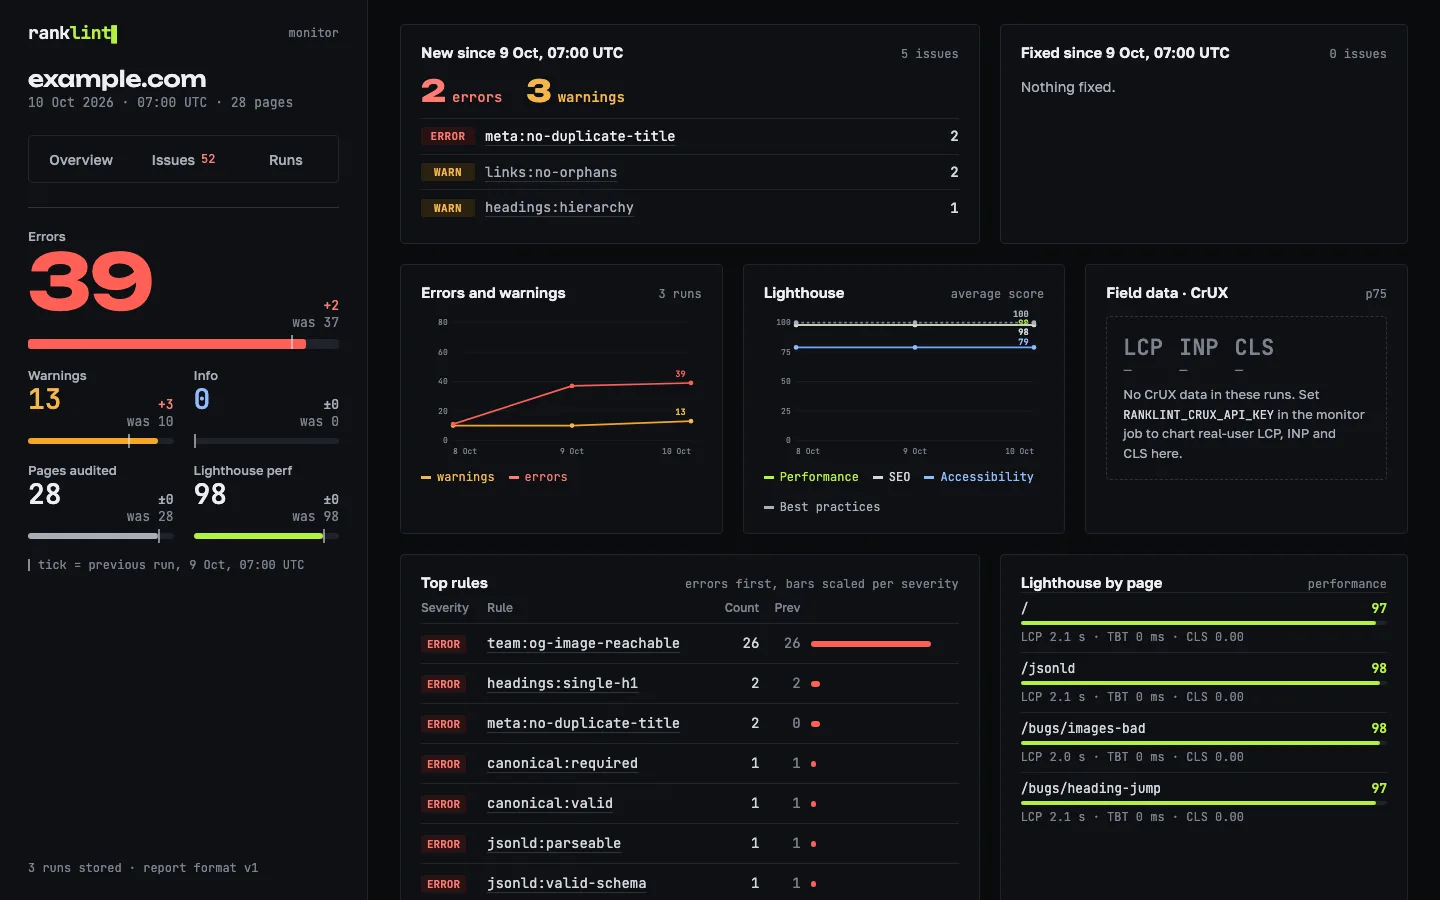
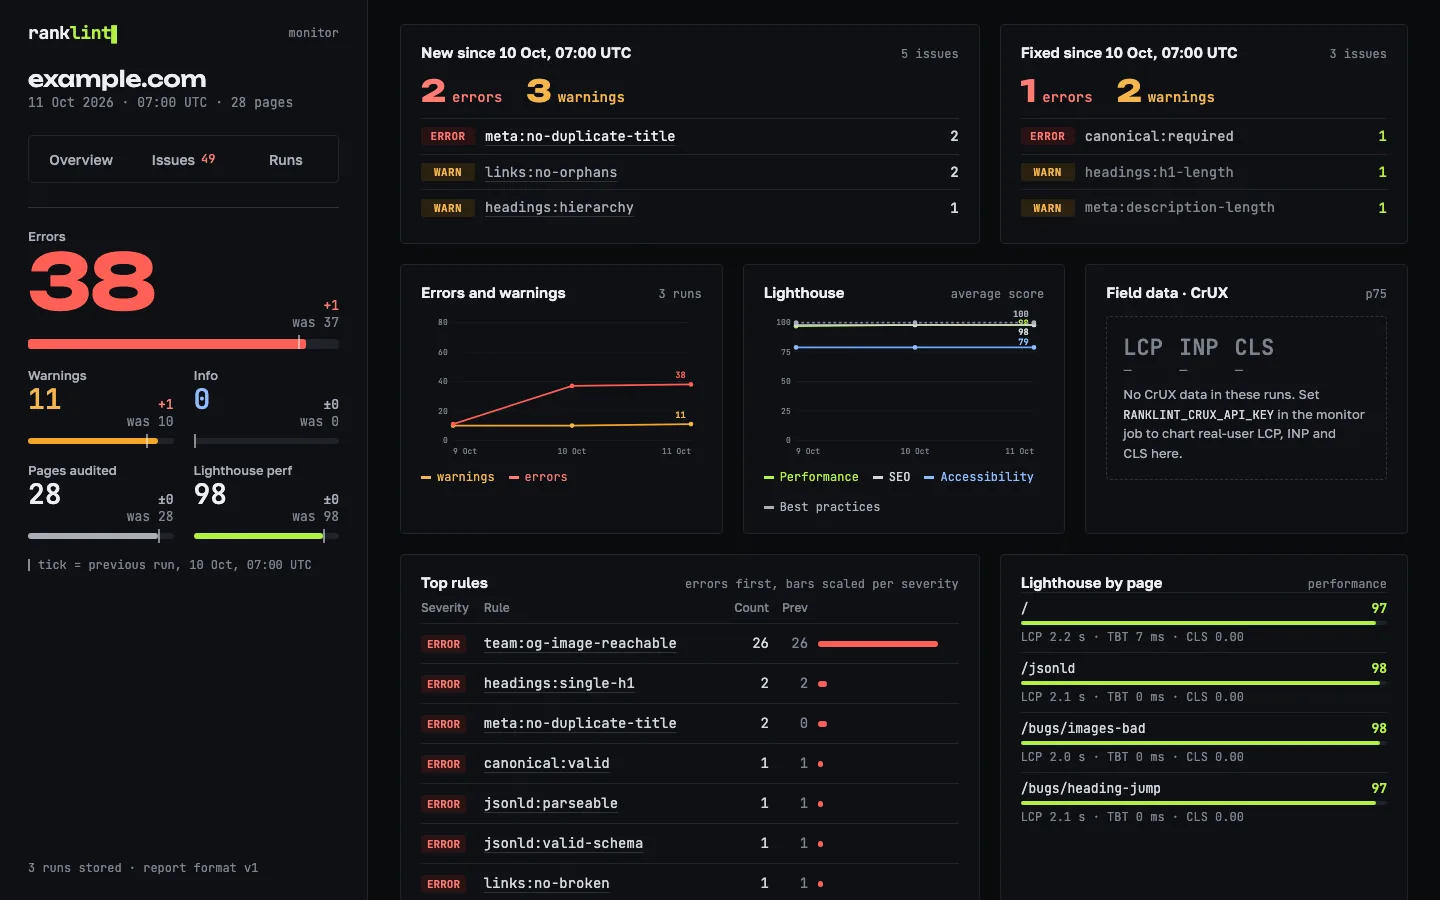
docs: dashboard shots with fixed issues

diff --git a/docs/content/ru/3.cli/3.monitor.md b/docs/content/ru/3.cli/3.monitor.md
@@ -100,7 +100,7 @@ ranklint dashboard --dir public/reports --out public \
 - обозреватель проблем последнего прогона;
 - архив прогонов со ссылками на их отчёты.
 
-![Дашборд ranklint для example.com: показатели с дельтами в левой панели, новые проблемы с прошлого прогона, тренд ошибок, баллы Lighthouse и топ правил](/dashboard/dashboard-1440.webp){width="1440" height="900" loading="lazy"}
+![Дашборд ranklint для example.com: показатели с дельтами в левой панели, новые и исправленные проблемы с прошлого прогона, тренд ошибок, баллы Lighthouse и топ правил](/dashboard/dashboard-1440.webp){width="1440" height="900" loading="lazy"}
 
 Графики появляются со второго прогона. Клик по правилу или странице в любой панели открывает его в обозревателе.
 

diff --git a/docs/content/en/3.cli/3.monitor.md b/docs/content/en/3.cli/3.monitor.md
@@ -100,7 +100,7 @@ The left rail shows the site, the time of the last run, the "Run audit" button a
 - the issues explorer for the last run;
 - the archive of runs with links to their reports.
 
-![ranklint dashboard for example.com: readouts with deltas in the left rail, new issues since the previous run, error trend, Lighthouse scores and top rules](/dashboard/dashboard-1440.webp){width="1440" height="900" loading="lazy"}
+![ranklint dashboard for example.com: readouts with deltas in the left rail, new and fixed issues since the previous run, error trend, Lighthouse scores and top rules](/dashboard/dashboard-1440.webp){width="1440" height="900" loading="lazy"}
 
 Charts appear from the second run. A rule or page clicked in any panel opens in the explorer.
 
